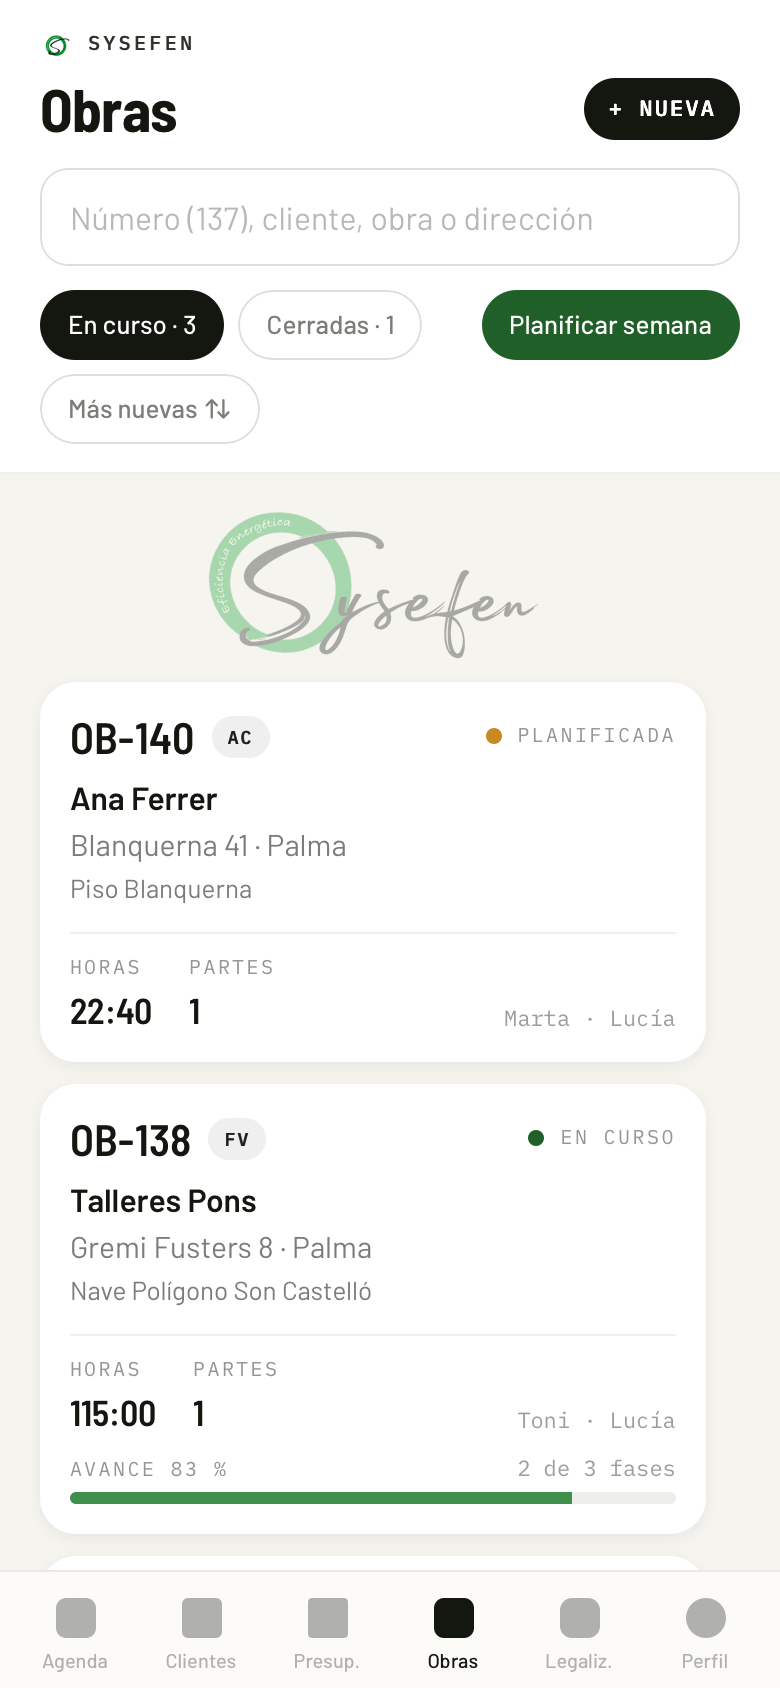
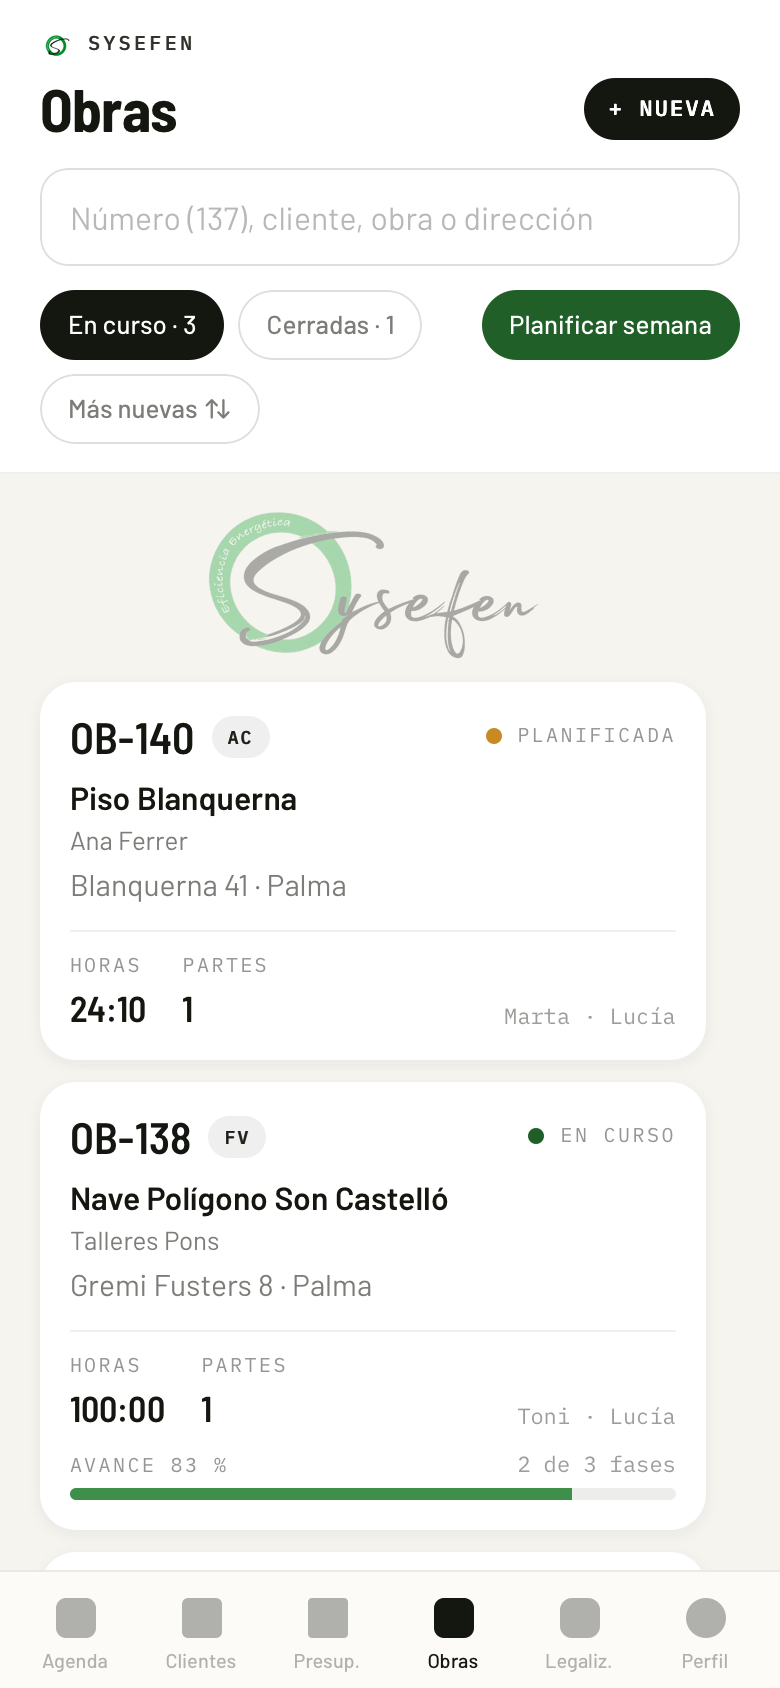
V20.6: en las obras, el nombre de la obra grande bajo el número y el cliente debajo

diff --git a/index.html b/index.html
@@ -390,7 +390,7 @@ import * as visitasDB from './visitas-db.js';
 window.Sysefen = { supabase, auth: sysAuth, db: sysDB };
 
 const KEY = 'ch_v1';
-const APP_VERSION = '20.5'; // versión visible de la app (única fuente)
+const APP_VERSION = '20.6'; // versión visible de la app (única fuente)
 const $ = (s) => document.querySelector(s);
 const esc = (v) => String(v == null ? '' : v).replace(/[&<>"']/g, (c) => ({ '&': '&amp;', '<': '&lt;', '>': '&gt;', '"': '&quot;', "'": '&#39;' }[c]));
 const uid = () => Date.now().toString(36) + Math.random().toString(36).slice(2, 7);
@@ -4412,9 +4412,9 @@ function cabeceraObraHTML(o) {
       <span class="grow"></span>
       <span class="row g8" style="align-items:center"><span class="dot" style="width:8px;height:8px;background:${obraCerrada(o) ? 'rgba(20,23,15,.22)' : o.estado === 'planificada' ? 'var(--ambar)' : 'var(--verde)'}"></span><span class="lbl">${esc(estadoObraTxt(o))}</span></span>
     </div>
-    <div style="font:600 16px/1.3 var(--sans);margin-top:${cod ? '9px' : '6px'}">${esc(o.cliente || (cod ? o.titulo : '') || 'Sin cliente')}</div>
-    ${direccionObra(o) ? `<div style="font:400 15px/1.35 var(--sans);color:var(--t2);margin-top:3px;display:-webkit-box;-webkit-line-clamp:2;-webkit-box-orient:vertical;overflow:hidden">${esc(direccionObra(o))}</div>` : ''}
-    ${cod && descr ? `<div class="sub" style="margin-top:3px">${esc(descr)}</div>` : ''}`;
+    <div style="font:600 16px/1.3 var(--sans);margin-top:${cod ? '9px' : '6px'}">${esc(descr || o.cliente || (cod ? o.titulo : '') || 'Sin cliente')}</div>
+    ${descr && o.cliente ? `<div class="sub" style="margin-top:2px">${esc(o.cliente)}</div>` : ''}
+    ${direccionObra(o) ? `<div style="font:400 15px/1.35 var(--sans);color:var(--t2);margin-top:3px;display:-webkit-box;-webkit-line-clamp:2;-webkit-box-orient:vertical;overflow:hidden">${esc(direccionObra(o))}</div>` : ''}`;
 }
 
 // La lista de obras de la pestaña elegida, filtrada por lo que se ha escrito.
@@ -4463,7 +4463,7 @@ function vObra() {
   return `<div class="hdr-dark">
     <div class="back" data-a="ir" data-v="obras">‹ Obras</div>
     <div class="row g8" style="align-items:center;flex-wrap:wrap"><span style="font:600 27px/1.1 var(--cond)">${esc(codigoObra(o) || o.titulo)}</span>${chipsCategorias(o, true)}<span class="grow"></span><span class="tiny" style="color:rgba(255,255,255,.55)">${esc(estadoObraTxt(o))}</span></div>
-    ${codigoObra(o) ? `<div style="font:600 17px/1.3 var(--sans);margin-top:8px">${esc(o.cliente || o.titulo)}</div>${o.nombre && o.nombre !== o.cliente ? `<div class="sub" style="color:rgba(255,255,255,.55);margin-top:2px">${esc(o.nombre)}</div>` : ''}` : (o.cliente ? `<div style="font:600 17px/1.3 var(--sans);margin-top:8px">${esc(o.cliente)}</div>` : '')}
+    ${codigoObra(o) ? `<div style="font:600 17px/1.3 var(--sans);margin-top:8px">${esc((o.nombre && o.nombre !== o.cliente ? o.nombre : '') || o.cliente || o.titulo)}</div>${o.nombre && o.nombre !== o.cliente && o.cliente ? `<div class="sub" style="color:rgba(255,255,255,.55);margin-top:2px">${esc(o.cliente)}</div>` : ''}` : (o.cliente ? `<div style="font:600 17px/1.3 var(--sans);margin-top:8px">${esc(o.cliente)}</div>` : '')}
     <div style="font:400 15px/1.35 var(--sans);color:rgba(255,255,255,.7);margin-top:4px">${esc(direccionObra(o) || 'Sin dirección')}</div>
     ${o.tlId ? '<div class="tiny" style="color:var(--verde-c);margin-top:6px">✓ Cliente enlazado con Teamleader</div>' : ''}
     ${o.dir ? `<div class="ag-acciones" style="justify-content:flex-start;gap:26px">${accionComoLlegar(o.dir)}</div>` : ''}

diff --git a/sw.js b/sw.js
@@ -1,4 +1,4 @@
-const CACHE = 'ch-v20-5';
+const CACHE = 'ch-v20-6';
 const ASSETS = ['./', './index.html', './manifest.webmanifest', './supabase-client.js', './supabase-auth.js', './supabase-db.js', './visitas-schemas.js', './visitas-form.js', './visitas-db.js', './icon-192.png?v=2', './icon-512.png?v=2', './icon-maskable.png?v=2', './logo-trans.png?v=3', './logo-blanco.png?v=3', './logo-s-blanco.png?v=2', './fondo-login.jpg'];
 
 // Al instalarse una versión nueva NO se activa sola: se queda esperando y la
